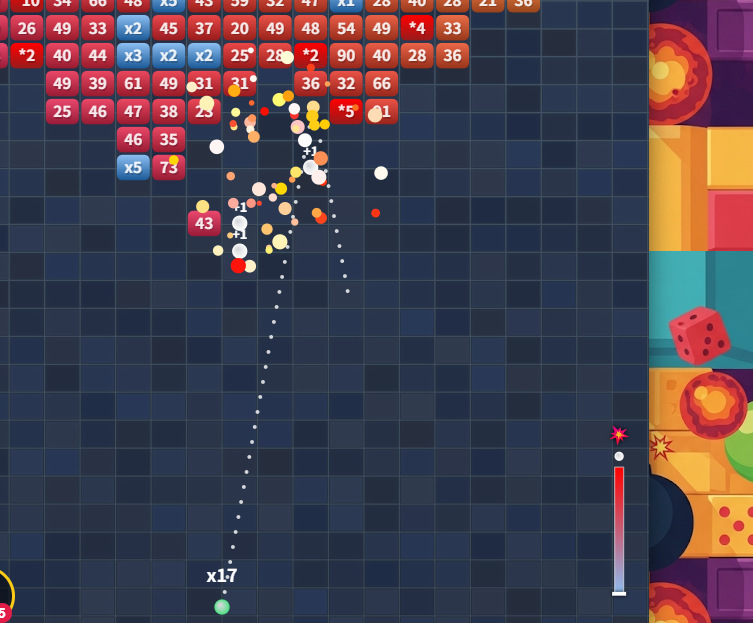
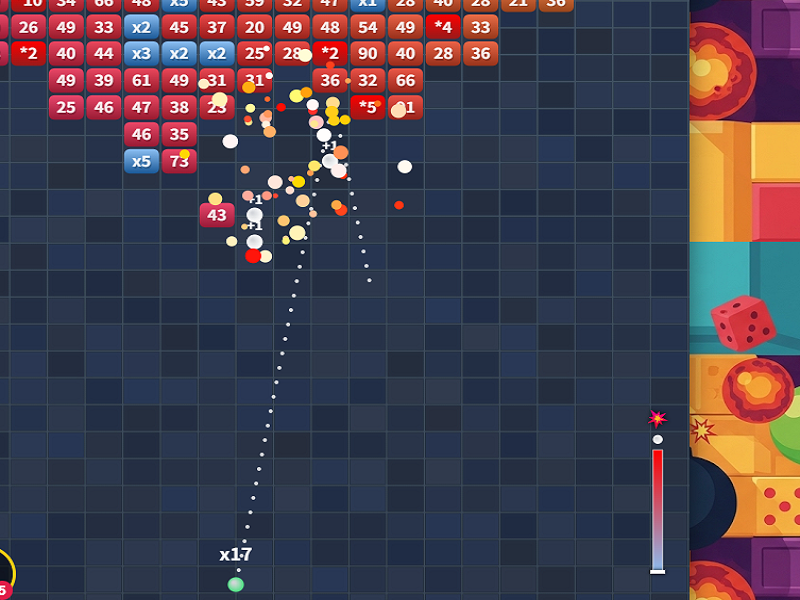
restore

diff --git a/README.md b/README.md
@@ -23,7 +23,7 @@ LLM Vibe Coding을 테스트하기 위한 간단한 프로젝트입니다.
 ## 🕹 게임하러 가기
 
 
-<a href="https://blockgame-five.vercel.app/" target="_blank">https://blockgame-five.vercel.app/</a>
+<a href="https://blockgame-five.vercel.app/" target="_blank">blockgame-five.vercel.app</a>
 
 <br>
 
@@ -31,9 +31,9 @@ LLM Vibe Coding을 테스트하기 위한 간단한 프로젝트입니다.
 
 |                                                               메인 화면                                                                |                                        조준 장면                                         |
 |:----------------------------------------------------------------------------------------------------------------------------------:|:------------------------------------------------------------------------------------:|
-| <img width="300" height="250" alt="Image" src="https://github.com/user-attachments/assets/074d0dc7-eb0c-44b0-b3cd-7e302425d47e" /> | <img width="300" height="250" alt="Image" src="https://github.com/user-attachments/assets/273dcf66-d758-4d32-a605-aea0f1e6b90c" /> |
+| <img width="800" height="600" alt="Image" src="https://github.com/user-attachments/assets/acadf76a-a89f-4839-8fba-3d40e28c8bb6" /> | <img width="800" height="600" alt="Image" src="https://github.com/user-attachments/assets/0964bfc9-9bb2-459b-a50a-aa5046e84eba" /> |
 |                                                            **화려한 플레이**                                                             |                                 **특수 능력 (폭탄 / 주사위)**                                 |
-|             <img width="300" height="250" alt="Image" src="https://github.com/user-attachments/assets/88356ed5-230f-4660-a6aa-893803f9c2b1" />             | <img width="300" height="250" alt="Image" src="https://github.com/user-attachments/assets/4049aeb6-d82a-4991-94e6-3ce589faadca" /> |
+| <img width="800" height="600" alt="Image" src="https://github.com/user-attachments/assets/6cfc437d-6e3e-4ea7-9aa8-ec8645ceb073" /> | <img width="800" height="600" alt="Image" src="https://github.com/user-attachments/assets/81aff65e-301b-4516-9199-834bb4123409" /> |
 
 
 
